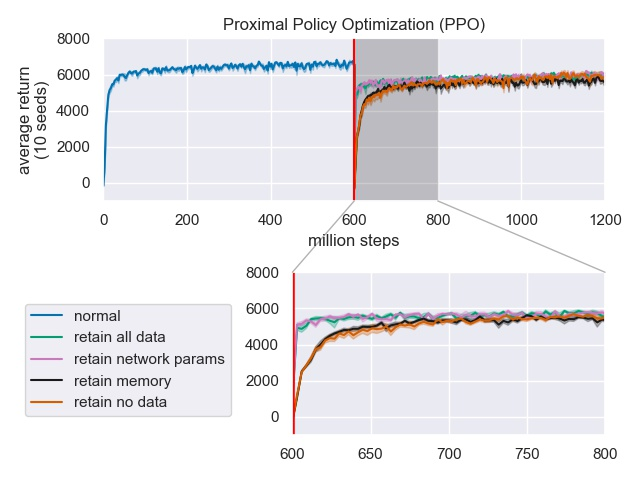
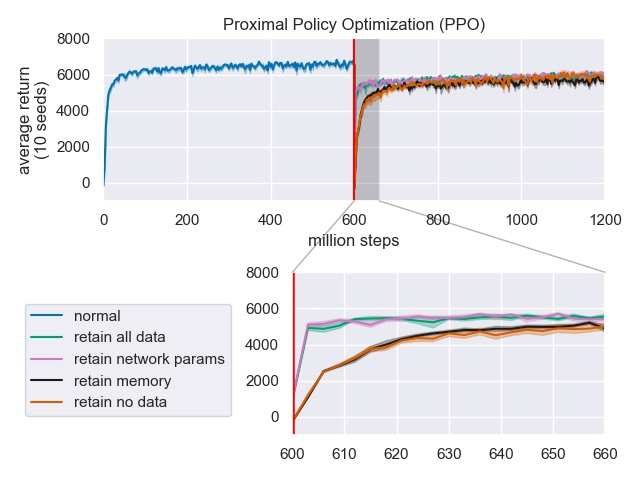
updated plots

diff --git a/plot/presentation/presentation.py b/plot/presentation/presentation.py
@@ -398,7 +398,7 @@ if __name__ == "__main__":
     # v1
 
     zoom_xmin = 600
-    zoom_xmax = 800
+    zoom_xmax = 660
     zoom_ymin = ymin
     zoom_ymax = ymax
 
@@ -407,7 +407,7 @@ if __name__ == "__main__":
     # v2
 
     zoom_xmin = 600
-    zoom_xmax = 800
+    zoom_xmax = 660
     zoom_ymin = ymin
     zoom_ymax = ymax
 
@@ -416,7 +416,7 @@ if __name__ == "__main__":
     # v3
 
     zoom_xmin = 600
-    zoom_xmax = 800
+    zoom_xmax = 660
     zoom_ymin = ymin
     zoom_ymax = ymax
 
@@ -425,7 +425,7 @@ if __name__ == "__main__":
     # v4
 
     zoom_xmin = 600
-    zoom_xmax = 800
+    zoom_xmax = 660
     zoom_ymin = ymin
     zoom_ymax = ymax
 
@@ -443,7 +443,7 @@ if __name__ == "__main__":
     # v1
 
     zoom_xmin = 20
-    zoom_xmax = 27
+    zoom_xmax = 22
     zoom_ymin = ymin
     zoom_ymax = ymax
 
@@ -452,7 +452,7 @@ if __name__ == "__main__":
     # v2
 
     zoom_xmin = 20
-    zoom_xmax = 27
+    zoom_xmax = 22
     zoom_ymin = ymin
     zoom_ymax = ymax
 
@@ -461,7 +461,7 @@ if __name__ == "__main__":
     # v3
 
     zoom_xmin = 20
-    zoom_xmax = 27
+    zoom_xmax = 22
     zoom_ymin = ymin
     zoom_ymax = ymax
 
@@ -470,7 +470,7 @@ if __name__ == "__main__":
     # v4
 
     zoom_xmin = 20
-    zoom_xmax = 27
+    zoom_xmax = 22
     zoom_ymin = ymin
     zoom_ymax = ymax
 
@@ -497,7 +497,7 @@ if __name__ == "__main__":
     # v1
 
     zoom_xmin = 6
-    zoom_xmax = 6.5
+    zoom_xmax = 6.6
     zoom_ymin = -12
     zoom_ymax = 1
 
@@ -506,7 +506,7 @@ if __name__ == "__main__":
     # v1GE
 
     zoom_xmin = 6
-    zoom_xmax = 6.5
+    zoom_xmax = 6.6
     zoom_ymin = -15
     zoom_ymax = 1
 
@@ -542,7 +542,7 @@ if __name__ == "__main__":
     # v1
 
     zoom_xmin = 2
-    zoom_xmax = 2.05
+    zoom_xmax = 2.2
     zoom_ymin = -12
     zoom_ymax = 1
 
@@ -551,7 +551,7 @@ if __name__ == "__main__":
     # v1GE
 
     zoom_xmin = 2
-    zoom_xmax = 2.05
+    zoom_xmax = 2.2
     zoom_ymin = -15
     zoom_ymax = 1
 
